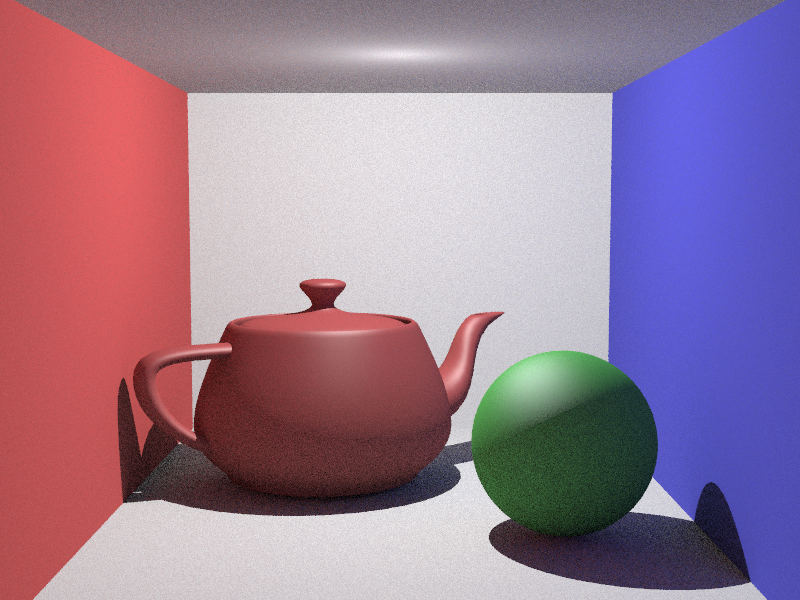
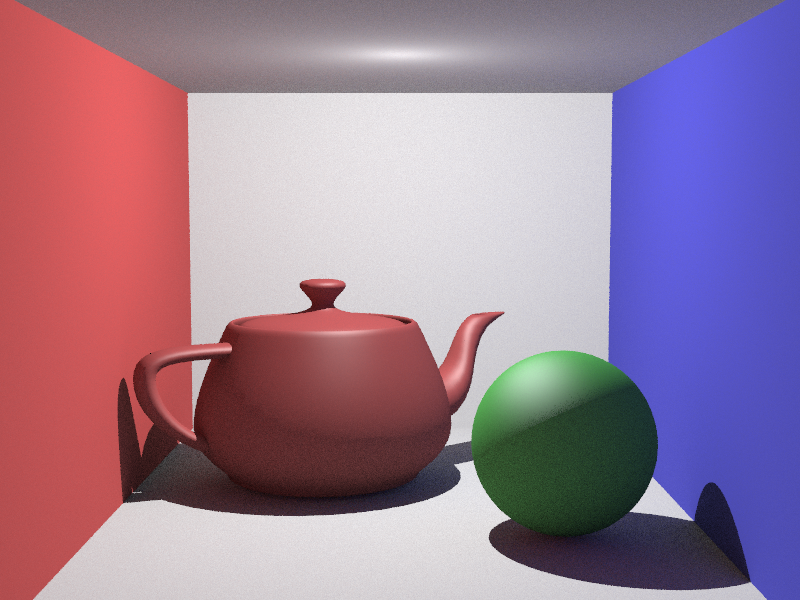
it's going well

diff --git a/RayTracingRenderer/enc_temp_folder/20e4c08687f3e61a6d7a942b3d5385c/RayTracingRenderer.cpp b/RayTracingRenderer/enc_temp_folder/20e4c08687f3e61a6d7a942b3d5385c/RayTracingRenderer.cpp
@@ -51,6 +51,52 @@ int main()
 //   5. Go to Project > Add New Item to create new code files, or Project > Add Existing Item to add existing code files to the project
 //   6. In the future, to open this project again, go to File > Open > Project and select the .sln file
 
+//Color RayTraversing(Node * node, Ray ray, HitInfo & hit, int bounce) {
+//
+//	Node * currentnode = node;
+//	int numberofchild = node->GetNumChild();
+//	HitInfo tmphit = HitInfo();
+//
+//	for (int i = 0; i < numberofchild; i++) 
+//	{
+//		currentnode = node->GetChild(i);
+//		Ray changedray = currentnode->ToNodeCoords(ray);
+//
+//		if (currentnode->GetNodeObj() != nullptr) {
+//			if(currentnode->GetNodeObj()->IntersectRay(changedray, tmphit, 0))
+//			{
+//				tmphit.node = currentnode;
+//				currentnode->FromNodeCoords(tmphit);
+//			}
+//			hit = tmphit;
+//		}
+//
+//		if (currentnode != nullptr) {
+//			Node childnode;
+//			RayTraversing(currentnode, changedray, zbuffer, hit);
+//			if (hit.node != nullptr && hit.node != tmphit.node)
+//			{
+//				currentnode->FromNodeCoords(hit);
+//				tmphit = hit;
+//			}
+//		}
+//	}
+//
+//	if (node == &rootNode)
+//	{
+//		hit = tmphit;
+//		if (tmphit.node != nullptr)
+//		{
+//			//Shading
+//			if (materials.Find(currentnode->GetMaterial()->GetName()) != nullptr)
+//			{
+//				return materials.Find(tmphit.node->GetMaterial()->GetName())->Shade(ray, tmphit, lights, bounce);
+//			}
+//		}
+//	}
+//	return Color(0, 0, 0);
+//}
+
 Color RayTraversing(Node * node, Ray ray, HitInfo & hit, int bounce)
 {
 	Node * currentnode;

diff --git a/RayTracingRenderer/RayTracingRenderer/constant.h b/RayTracingRenderer/RayTracingRenderer/constant.h
@@ -11,7 +11,7 @@
 #define RAYPERPIXELFORBLUREFFECT 8
 #define RAYPERPIXELFORGLOSSINESS 8
 #define RAYPERPIXELFORSHADOW 1
-#define MONTECARLOGI 16
+#define MONTECARLOGI 64
 
 //#define NOANTIALIASING
 #define BLUREFFECT
